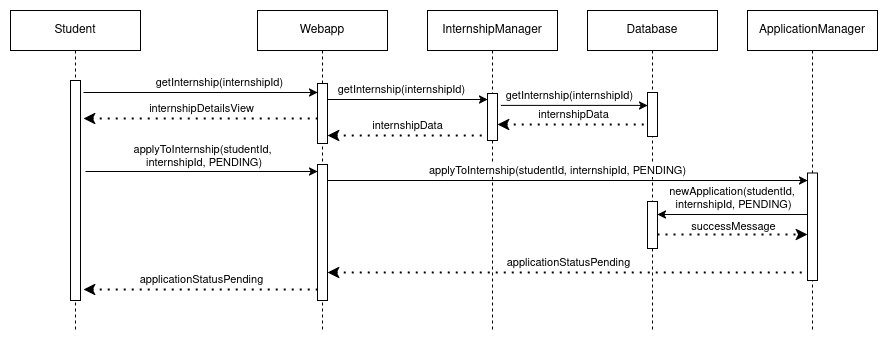
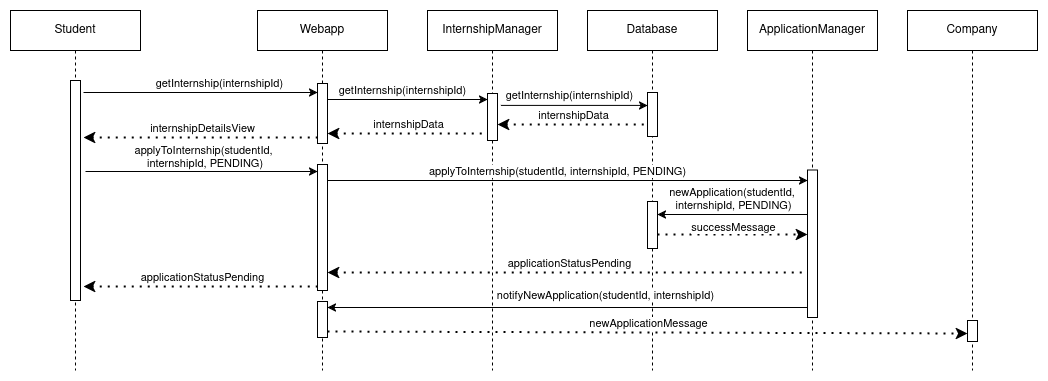
[ADD] new sequence diagrams, description of components

diff --git a/DD/content/content.tex b/DD/content/content.tex
@@ -68,6 +68,20 @@ The primary advantage of this architecture lies in its modularity. Each layer ca
 
 \section{Component view}
 
+The components that make up the application are the following:
+\begin{itemize}
+   \item \textbf{AuthenticationManager}: handles login and signup functionalities
+    \item \textbf{InternshipManager}: manages internships, including creation, editing, and deletion
+    \item \textbf{ApplicationManager}: handles internship applications, including submission, acceptance, and rejection
+    \item \textbf{InterviewManager}: integrates with a third-party app for interviews and manages scheduling
+    \item \textbf{StudentProfileManager}: manages student profiles, personal details, and CV uploads
+    \item \textbf{CompanyProfileManager}: manages company profiles
+    \item \textbf{FeedbackManager}: supports feedback submission and commenting
+    \item \textbf{RecommendationEngine}: suggests internships and students based on preferences
+    \item \textbf{WebApp}: Serves as both the view and the controller. It routes user requests to the appropriate components, processes their responses, and sends the final view back to the end user
+    \item \textbf{Database}: stores all of the application's data
+\end{itemize}
+
 \subsection{Class diagram}
 \includegraphics[width=\textwidth]{DD/images/otherDiagrams/ClassDiagram.png}
 
@@ -106,36 +120,34 @@ The client-side S\&C app runs in the browser, and every client request is first 
     \textbf{[UC9] Company deletes an internship announcement}
 
     %\includegraphics[width=\textwidth]{DD/images/sequenceDiagrams/ReviewStudentCVSequenceDiagram.png}
-    %\textbf{[UC10] Company reviews a student's application}
+    \textbf{[UC10] Company reviews a student's application}
 
     %\includegraphics[width=\textwidth]{DD/images/sequenceDiagrams/CompanyOffersInternshipSequenceDiagram.png}
-    %\textbf{[UC11] Company offers an internship to a student}
+    \textbf{[UC11] Company offers an internship to a student}
 
     %\includegraphics[width=\textwidth]{DD/images/sequenceDiagrams/InterviewSetupSequenceDiagram.png}
-    %\textbf{[UC12] Student and company set up the interview}
+    \textbf{[UC12] Student and company set up the interview}
 
     %\includegraphics[width=\textwidth]{DD/images/sequenceDiagrams/InterviewMeetupSequenceDiagram.png}
-    %\textbf{[UC13] Student and company meet for the interview}
+    \textbf{[UC13] Student and company meet for the interview}
 
     \includegraphics[width=\textwidth]{DD/images/sequenceDiagrams/CompanyAdmitsStudentToInternship.png}
     \textbf{[UC14] Company admits a student to an internship}
 
     %\includegraphics[width=\textwidth]{DD/images/sequenceDiagrams/StudentFeedbackSequenceDiagram.png}
-    %\textbf{[UC15] Student provides feedback on an internship}
+    \textbf{[UC15] Student provides feedback on an internship}
 
     %\includegraphics[width=\textwidth]{DD/images/sequenceDiagrams/CompanyFeedbackSequenceDiagram.png}
-    %\textbf{[UC16] Company provides feedback on a student}
+    \textbf{[UC16] Company provides feedback on a student}
 
     %\includegraphics[width=\textwidth]{DD/images/sequenceDiagrams/StudentAnswerSequenceDiagram.png}
-    %\textbf{[UC17] Student answers a comment about them}
+    \textbf{[UC17] Student answers a comment about them}
 
     %\includegraphics[width=\textwidth]{DD/images/sequenceDiagrams/CompanyAnswerSequenceDiagram.png}
-    %\textbf{[UC18] Company answers a comment about an internship if offered}
+    \textbf{[UC18] Company answers a comment about an internship if offered}
 \end{center}
 
 \section{Component interfaces}
-
-%%%%%%%%%%%%%%%%%%%%%%%%%% TODO: metodi della webapp (es per login e signup) e del database
 
 \textbf{AuthenticationManager}
 \begin{itemize}
@@ -167,11 +179,6 @@ The client-side S\&C app runs in the browser, and every client request is first 
     \item rejectApplication(studentId: int, internshipId: int)
 \end{itemize}
 
-%\textbf{InternshipProposalManager}
-%\begin{itemize}
- %   \item suggestInternshipToStudent(studentId, internshipId)
-%\end{itemize}
-
 \textbf{InterviewManager}
 \begin{itemize}
     \item getStudentInterviews(studentId: int) : List[Interview]
@@ -179,6 +186,7 @@ The client-side S\&C app runs in the browser, and every client request is first 
     \item chooseThreeDates(studentId: int, internshipId: int, possibleDates: List[Date])
     \item selectDate(studentId: int, internshipId: int, selectedDate: Date)
     \item requestNewDates(studentId: int, internshipId: int)
+    \item openThirdPartyApp(interviewId: int)
     \item joinInterview(interviewId: int)
 \end{itemize}
 
@@ -203,9 +211,9 @@ The client-side S\&C app runs in the browser, and every client request is first 
     % by a company about a student on a particular internship
     \item submitCompanyFeedback(internshipId: int, studentId: int, feedbackContent: String)
      % company answers, return is a companyComment
-    \item answerStudentFeedback(companyId: int, studentId: int, answerContent: String)
+    \item answerStudentFeedback(companyId: int, studentId: int, answerContent: String, studentFeedbackId: int)
      % student answers, return is a studentComment
-    \item answerCompanyFeedback(studentId: int, companyId: int, answerContent: String)
+    \item answerCompanyFeedback(studentId: int, companyId: int, answerContent: String, companyFeedbackId: int)
 \end{itemize}
 
 \textbf{RecommendationEngine}
@@ -214,6 +222,24 @@ The client-side S\&C app runs in the browser, and every client request is first 
     \item getInternshipSuggestions(internshipId: int) : List[CompanyRecommendation]
 \end{itemize}
 \newpage
+
+\textbf{Webapp}
+\begin{itemize}
+    %%%%% NOTIFICATIONS
+    % called by internshipmanager
+    \item notifyOffer(studentId: int, internshipId: int) % sends a message to student with the proposed internship
+    \item notifySelection(studentId: int, internshipId: int) % after a student has been approved
+    
+    % called by applicationmanager
+    \item notifyUpdatedApplicationStatus(studentId: int, internshipId: int, applicationStatus: ApplicationStatus) % used by company to notify the student of the accept or reject fo the application
+    \item notifyNewApplication(studentId: int, internshipId: int) % the student has applied to the internship
+    
+    % called by feedbackmanager
+    \item notifyStudent(studentId: int, companyFeedbackId: int)
+    \item notifyCompany(companyId: int, studentFeedbackId: int)
+    \item notifyStudent(studentId: int, companyCommentId: int)
+    \item notifyCompany(companyId: int, studentCommentId: int)
+\end{itemize}
 
 \section{Selected architectural styles and patterns}
 
@@ -236,7 +262,7 @@ The Model-View-Controller pattern is a robust choice for implementing the S\&C p
 
 For the S\&C platform, all components except the Webapp will serve as the Model. The Webapp will handle both the View and Controller aspects, facilitating communication with the Model components and rendering the user interface by translating the data accordingly. 
 
-This division ensures a clear separation of concerns, enhancing scalability, promoting reusability, and maintaining the independence of each module, which simplifies maintenance and future development.
+This division ensures a clear separation of concerns, enhancing scalability, promoting reusability, and maintaining each module's independence, simplifying maintenance and future development.
 
 \section{Other design decisions}
 \subsection{Availability }
@@ -405,11 +431,11 @@ This section outlines the methodologies and strategies for implementing and test
 \section{Implementation plan}
 The \textbf{top-down approach} will be used to implement and integrate the various components of the system. This approach focuses on incremental integration and testing, starting from the highest-level interfaces and progressively working down to the lower-level modules.
 
-The process begins with the development and testing of top-level components, in this case, the Webapp containing the user interface and the API to communicate with the low-level components. Drivers are used to simulate interactions with these high-level interfaces, ensuring that they function correctly.
+The process begins with developing and testing top-level components, in this case, the Webapp containing the user interface and the API to communicate with the low-level components. Drivers are used to simulate interactions with these high-level interfaces, ensuring that they function correctly.
 
-To facilitate testing during development, placeholder stubs are introduced for lower-level components that are not yet implemented. These stubs simulate the behaviour of the missing components, enabling continuous testing of the integrated system without waiting for all components to be ready.
+To facilitate testing during development, placeholder stubs are introduced for lower-level components that have yet to be implemented. These stubs simulate the behaviour of the missing components, enabling continuous testing of the integrated system without waiting for all components to be ready.
 
-As individual components are completed, they replace their corresponding stubs, progressively expanding the functionality of the system. This iterative process also involves introducing new stubs as deeper levels of the system are developed, ensuring that integration and testing can continue seamlessly.
+As individual components are completed, they replace their corresponding stubs, progressively expanding the system's functionality. This iterative process also involves introducing new stubs as deeper system levels are developed, ensuring that integration and testing can continue seamlessly.
 
 Once all components have been implemented and integrated, the entire system undergoes comprehensive testing to validate its full functionality and adherence to the design specifications.
 
@@ -513,21 +539,25 @@ This section contains a record of the effort spent by each group member expresse
 \begin{tabular}{|c|c|c|c|c|}
 \hline
 \textbf{Chapter} & \textbf{Section} & \textbf{Ilardi's hours} & \textbf{Luraghi's hours} & \textbf{Collaborative hours} \\ \hline
-\multirow{3}{*}{Chapter 1} & Section 1.1 & 0 & 0 & 1\\ \cline{2-5}
-                           & Section 1.2 & 0 & 0 & 2 \\ \cline{2-5}
-                           & Sections 1.3, 1.4, 1.5, 1.6 & 0 & 0 & 0.5 \\ \cline{2-5}
+\multirow{3}{*}{Chapter 1} & Section 1.1 & 0 & 0 & 0\\ \cline{2-5}
+                           & Section 1.2 & 0 & 0 & 0 \\ \cline{2-5}
+                           & Sections 1.3, 1.4, 1.5, 1.6 & 0 & 0 & 0 \\ \cline{2-5}
                             \hline
-\multirow{4}{*}{Chapter 2} & Section 2.1 & 2 & 0 & 7 \\ \cline{2-5}
-                           & Section 2.2 & 0 & 1 & 0 \\ \cline{2-5}
-                           & Section 2.3 & 0 & 1 & 0 \\ \cline{2-5}
-                           & Section 2.4 & 0 & 0 & 1 \\ \hline
-\multirow{3}{*}{Chapter 3} & Section 3.1 & 0 & 4 & 1 \\ \cline{2-5}
-                           & Section 3.2 & 9 & 2 & 7 \\ \cline{2-5}
-                           & Sections 3.3, 3.4, 3.5 & 1 & 0 & 1 \\ \hline
-\multirow{1}{*}{Chapter 4} &  & 0 & 5 & 1 \\ \hline
-\multirow{1}{*}{Chapter 5} &  & 1 & 0 & 0 \\ \hline
-
-\multirow{1}{*}{\textbf{Total}} &  & 13 & 13 & 21.5 \\ \hline
+\multirow{7}{*}{Chapter 2} & Section 2.1 & 0 & 0 & 0 \\ \cline{2-5}
+                           & Section 2.2 & 0 & 0 & 0 \\ \cline{2-5}
+                           & Section 2.3 & 0 & 0 & 0 \\ \cline{2-5}
+                           & Section 2.4 & 0 & 0 & 0 \\ \cline{2-5}
+                           & Section 2.5 & 0 & 0 & 0 \\ \cline{2-5}
+                           & Section 2.6 & 0 & 0 & 0 \\ \cline{2-5}
+                           & Section 2.7 & 0 & 0 & 0 \\ \hline
+\multirow{1}{*}{Chapter 3} &  & 0 & 0 & 0 \\ \hline
+\multirow{1}{*}{Chapter 4} &  & 0 & 0 & 0 \\ \hline
+\multirow{5}{*}{Chapter 5} & Section 5.1 & 0 & 0 & 0 \\ \cline{2-5}
+                           & Section 5.2 & 0 & 0 & 0 \\ \cline{2-5}
+                           & Section 5.3 & 0 & 0 & 0 \\ \cline{2-5}
+                           & Section 5.4 & 0 & 0 & 0 \\ \cline{2-5}
+                           & Section 5.5 & 0 & 0 & 0 \\ \hline
+\multirow{1}{*}{\textbf{Total}} &  & 0 & 0 & 0 \\ \hline
 
 \end{tabular}
 \end{table}
